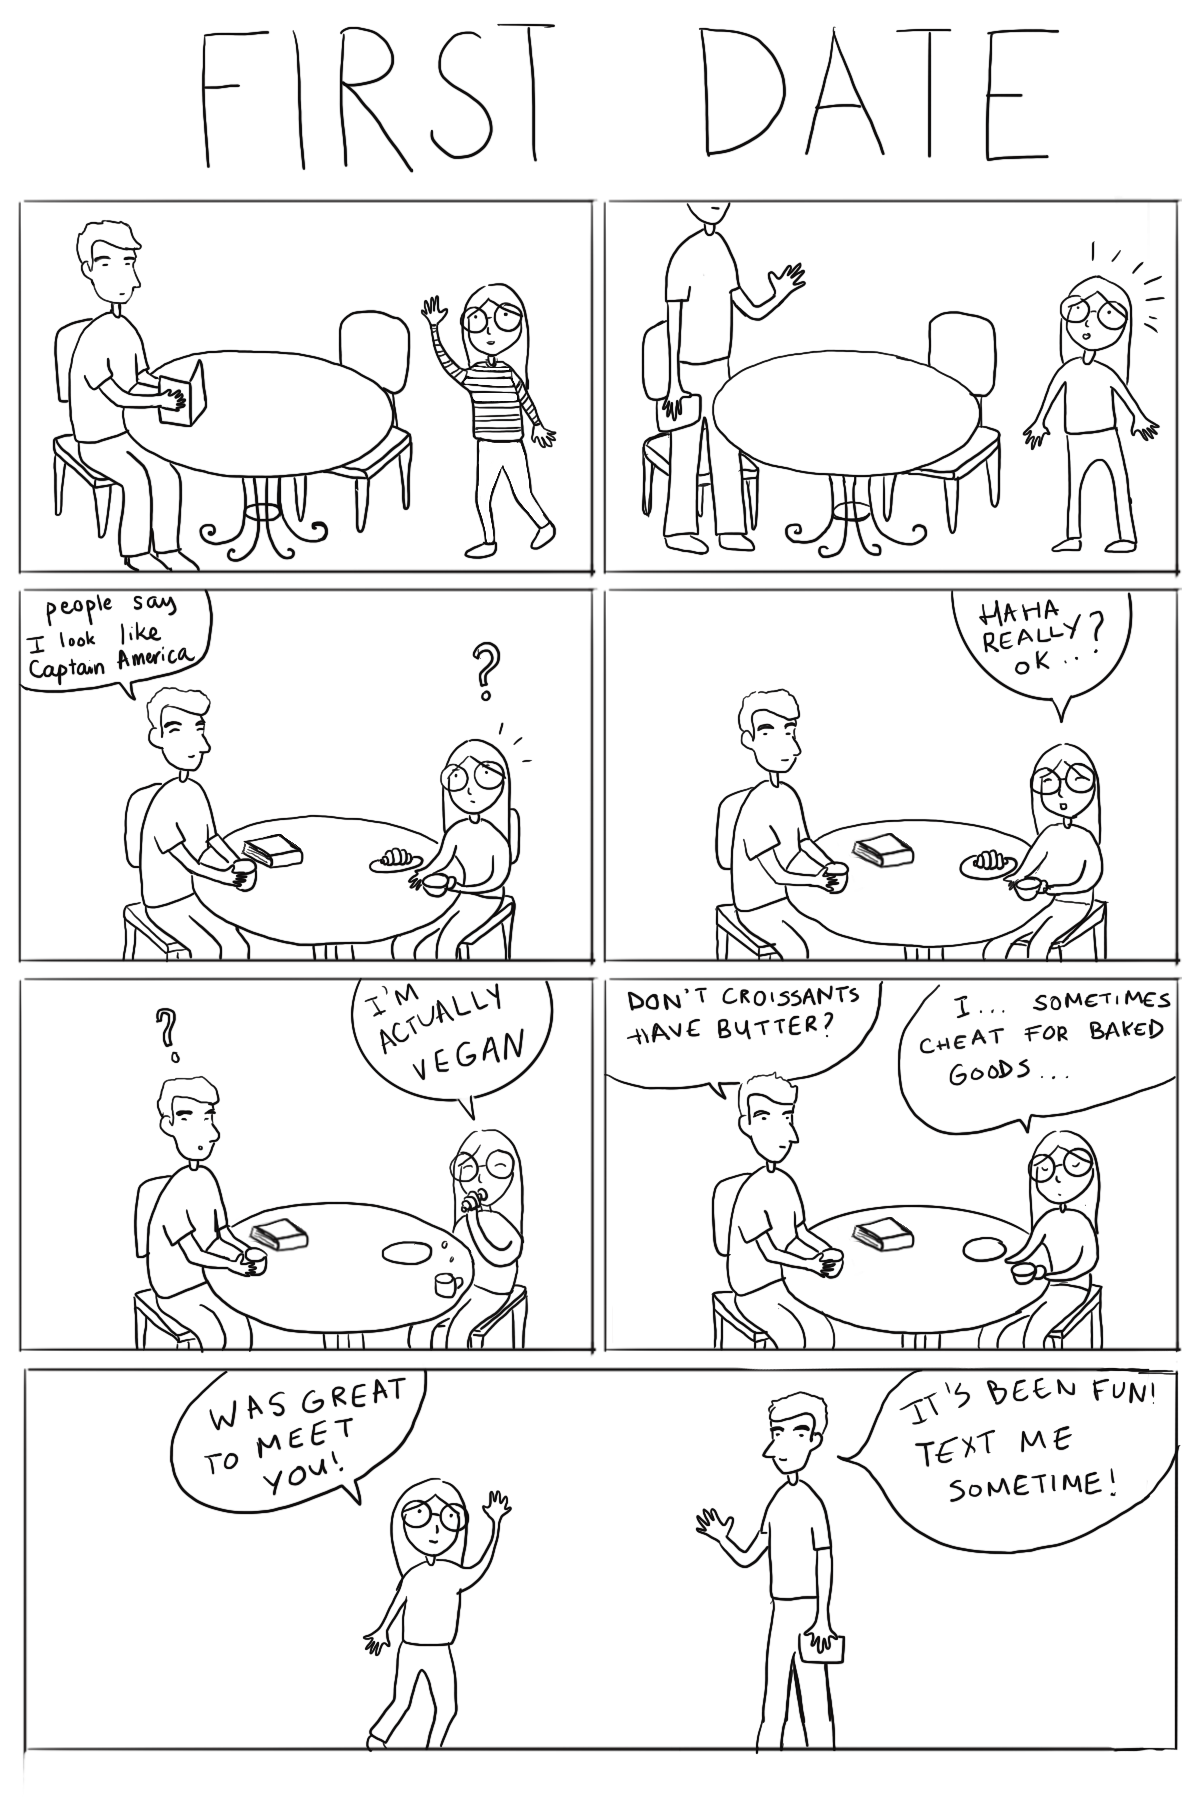
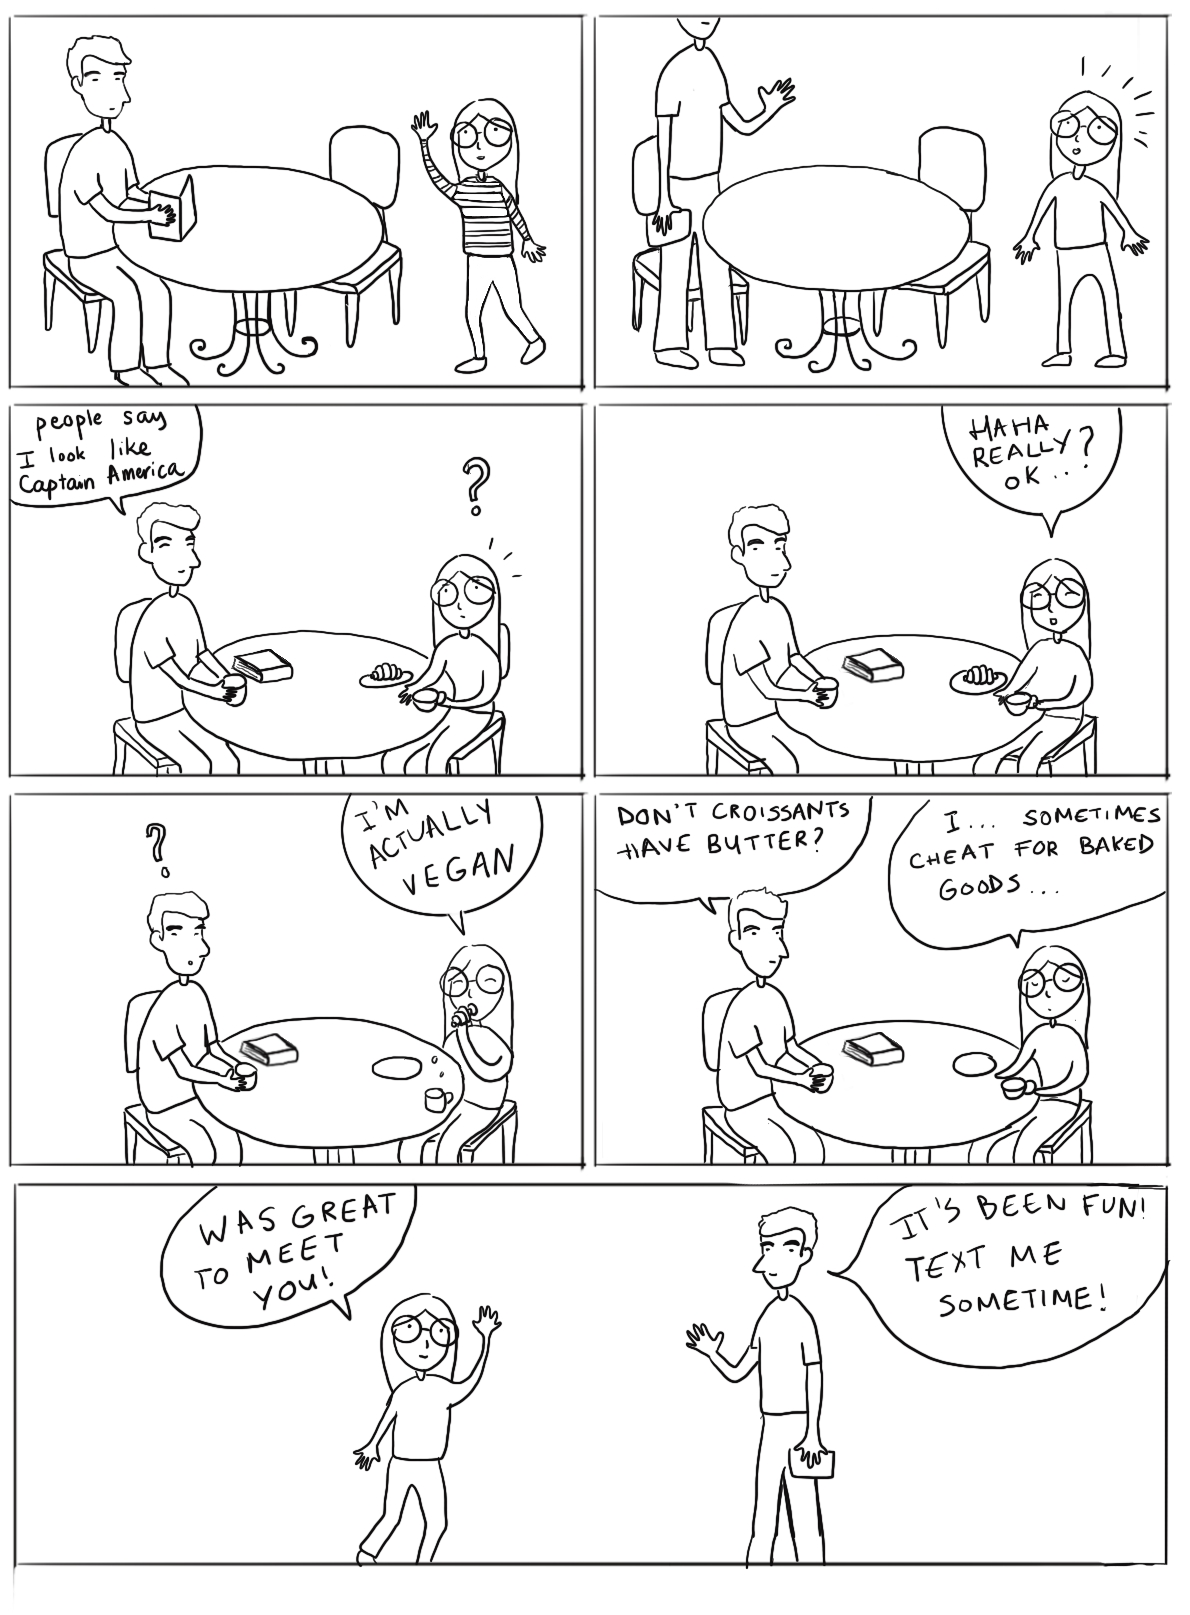
add photos

Changed region(s): [[0.0, 0.0, 0.995, 0.9907], [0.0, 0.0, 0.0311, 0.031]]

diff --git a/src/components/OurStory.js b/src/components/OurStory.js
@@ -1,6 +1,117 @@
-import React from "react";
+import React, { useState } from "react";
 import { Page } from "./Page";
+import firstDate from "../assets/first_date.png";
+import firstMushroomHunt from "../assets/first_mushroom_hunt.jpeg";
+import firstMushroomHunt2 from "../assets/first_mushroom_hunt2.jpg";
+import firstMushroomHunt3 from "../assets/first_mushroom_hunt3.jpg";
+import firstBm from "../assets/first_bm.jpg";
+import firstBm2 from "../assets/first_bm_2.jpeg";
+import firstBm3 from "../assets/first_bm_3.jpeg";
+import andrewDancing from "../assets/andrew_dancing.gif";
+
+const PageTurn = ({ hide, direction, onClick }) => {
+  return (
+    <div
+      className="page-turner"
+      onClick={onClick}
+      style={{
+        ...(hide ? { opacity: "0%" } : {}),
+        height: "100%",
+        fontSize: "40px",
+        fontWeight: 800,
+        cursor: "pointer",
+        display: "flex",
+        alignItems: "center",
+        justifyContent: "center",
+      }}
+    >
+      {direction === "next" ? ">" : "<"}
+    </div>
+  );
+};
+
+const StoryCaption = ({ children }) => (
+  <div style={{ marginTop: "10px" }}>{children}</div>
+);
+const StoryPage = ({ src, caption, alt }) => (
+  <div className="story">
+    <div style={{ height: "80%" }}>
+      <img alt={alt} src={src} />
+    </div>
+    <StoryCaption>{caption}</StoryCaption>
+  </div>
+);
 
 export const OurStory = () => {
-  return <Page>This is our story~</Page>;
+  const pages = [
+    {
+      src: firstDate,
+      alt: "first-date-comic",
+      caption: "First date - Thoroughbread coffee shop in San Francisco",
+    },
+    {
+      src: firstMushroomHunt,
+      alt: "first-mushroom-hunt-waterfall",
+      caption: "First mushroom hunt - ?",
+    },
+    {
+      src: firstMushroomHunt2,
+      alt: "first-mushroom-hunt-andrew",
+      caption: "First mushroom hunt - ?",
+    },
+    {
+      src: firstMushroomHunt3,
+      alt: "first-mushroom-hunt-haul",
+      caption: "First mushroom hunt - the haul",
+    },
+    {
+      src: firstBm2,
+      alt: "first-burning-man",
+      caption: "Our first burning man together in 2018",
+    },
+    {
+      src: firstBm,
+      alt: "first-burning-man-2",
+      caption: "Our first burning man together in 2018",
+    },
+    {
+      src: firstBm3,
+      alt: "first-burning-man-2",
+      caption: "Our first burning man together in 2018",
+    },
+    {
+      src: andrewDancing,
+      alt: "andrew-dancing",
+      caption: "Celebrating our friends getting married",
+    },
+  ];
+  const [page, setPage] = useState(0);
+  console.log({ page });
+
+  return (
+    <Page>
+      <div
+        style={{
+          display: "flex",
+          flexDirection: "row",
+          margin: "auto",
+          alignItems: "center",
+          justifyContent: "center",
+          height: "100%",
+        }}
+      >
+        <PageTurn
+          hide={page <= 0}
+          onClick={() => setPage(Math.max(0, page - 1))}
+          direction="back"
+        />
+        {<StoryPage {...pages[page]} />}
+        <PageTurn
+          hide={page >= pages.length - 1}
+          onClick={() => setPage(Math.min(page + 1, pages.length - 1))}
+          direction="next"
+        />
+      </div>
+    </Page>
+  );
 };

diff --git a/src/App.css b/src/App.css
@@ -1,9 +1,6 @@
-.App {
-  text-align: center;
-}
-
 .page-container {
   max-width: 80vw;
+  max-height: fit-content;
   margin: auto;
 }
 
@@ -75,22 +72,12 @@
 
 /* Style the content container */
 .page-content {
-  min-height: 60vh;
+  height: 65vh;
+  max-height: fit-content;
   padding: 20px;
   box-sizing: border-box;
   border-top: 1px dashed black;
   border-bottom: 1px dashed black;
-}
-
-@media (max-width: 600px) {
-  .logo {
-    display: none;
-  }
-  .navigation-container {
-    flex-direction: column-reverse;
-    align-items: flex-start;
-    margin: 10px 25px;
-  }
 }
 
 .head {
@@ -104,4 +91,48 @@
 
 .rotate-right {
   transform: rotate(-30deg);
+}
+
+.story {
+  display: flex;
+  flex-direction: column;
+  align-items: center;
+  justify-content: space-between;
+  /* height: 60vh; */
+}
+
+.story img {
+  width: 400px;
+}
+
+/* for smaller screens */
+@media (max-width: 600px) {
+  .logo {
+    display: none;
+  }
+  .navigation-container {
+    flex-direction: column-reverse;
+    align-items: flex-start;
+    margin: 10px 25px;
+  }
+  .story img {
+    width: 80vw;
+  }
+  .page-content {
+    height: unset;
+    min-height: fit-content;
+  }
+}
+
+@media (max-height: 700px) {
+  .footer {
+    margin-top: 5px;
+  }
+  .head {
+    width: 50px;
+    height: 50px;
+  }
+  .story {
+    height: 60vh;
+  }
 }

diff --git a/src/components/Home.js b/src/components/Home.js
@@ -1,8 +1,21 @@
 import React from "react";
 import { Page } from "./Page";
+import minhdrew from "../assets/andrewminh.png";
 
 export const Home = () => {
   return (
-    <Page>We're getting married and we can't wait to celebrate with you.</Page>
+    <Page>
+      <div
+        style={{
+          display: "flex",
+          flexDirection: "column",
+          alignItems: "center",
+          justifyContent: "space-between",
+        }}
+      >
+        <div style={{ padding: "20px" }}>We're getting married!!</div>
+        <img style={{ height: "50vh" }} src={minhdrew} alt="minh-andrew" />
+      </div>
+    </Page>
   );
 };

diff --git a/src/components/NavigationBar.js b/src/components/NavigationBar.js
@@ -8,7 +8,13 @@ export const NavigationBar = () => {
         <a href="/story">Story</a>
         <a href="/schedule">Schedule</a>
         <a href="/faqs">FAQs</a>
-        <a href="/rsvp">RSVP</a>
+        <a
+          target="_blank"
+          href="https://forms.gle/6eLHMno78bijLBtC6"
+          rel="noreferrer"
+        >
+          RSVP
+        </a>
       </nav>
       <div className="title-logo">
         <a className="clickable-title-logo" href="/">

diff --git a/src/components/Schedule.js b/src/components/Schedule.js
@@ -26,7 +26,7 @@ export const Schedule = () => {
         <ul>
           <li>Where? 255 Tim Ct., Danville CA</li>
           <li>When? April 2nd, 2023</li>
-          <li>We'll have fruits & bagels from 10am to 1pm.</li>
+          <li>We'll have fruits & bagels from 10am to noon.</li>
         </ul>
       </div>
     </Page>
